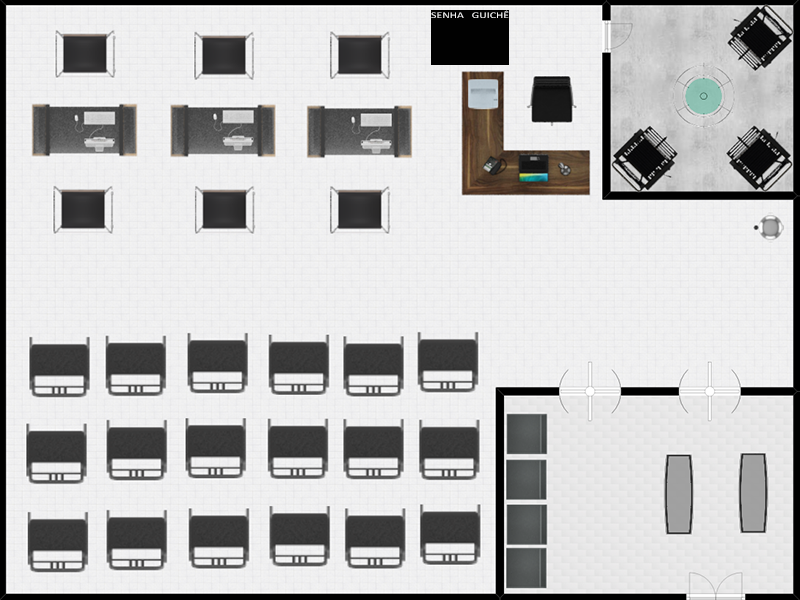
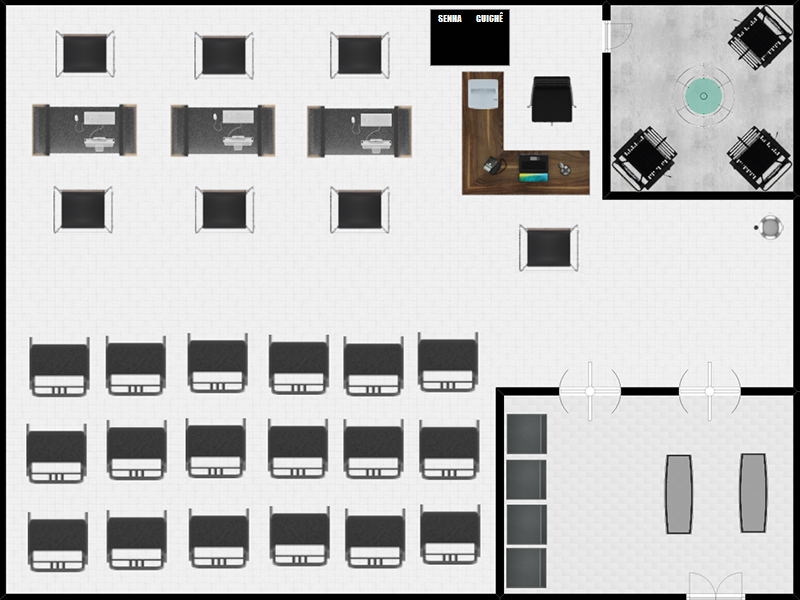
Fala do gerente, Fala do Cliente ao chegar ao Banco, Cadeira do cliente no Background

Changed region(s): [[0.5312, 0.0, 0.6562, 0.06], [0.6562, 0.36, 0.7188, 0.45]]

diff --git a/BAgent/src/modelo/agentes/AgenteGerente.java b/BAgent/src/modelo/agentes/AgenteGerente.java
@@ -18,6 +18,8 @@ public class AgenteGerente extends Agent {
 
     private int ultimaSenha;
     private JLabel imagemIcone;
+    private JLabel tipGerente;
+    private JLabel tipClienteGerente;
 
     public AgenteGerente() {
         this.ultimaSenha = 0;
@@ -26,6 +28,8 @@ public class AgenteGerente extends Agent {
     @Override
     protected void setup() {
         imagemIcone = (JLabel) getArguments()[0];
+        tipGerente = (JLabel) getArguments()[1];
+        tipClienteGerente = (JLabel) getArguments()[2];
         addBehaviour(new CyclicBehaviour(this) {
 
             @Override
@@ -34,10 +38,26 @@ public class AgenteGerente extends Agent {
                 if (msg != null) {
                     String content = msg.getContent();
                     if (content.equalsIgnoreCase("Quero uma senha para atendimento.")) {
+                        tipClienteGerente.setVisible(true);
+                        tipClienteGerente.setText("<html>" + content);
+                        try {
+                            Thread.sleep(1000);
+                        } catch (InterruptedException ex) {
+                            Logger.getLogger(AgenteGerente.class.getName()).log(Level.SEVERE, null, ex);
+                        }
+                        tipClienteGerente.setVisible(false);
                         //System.out.println("Gerente recebe: " + content);
                         enviaMensagem(myAgent, msg.getSender().getLocalName(), "Sua senha é Cliente-" + ultimaSenha);
+                        tipGerente.setVisible(true);
+                        tipGerente.setText("<html> Sua senha é " + ultimaSenha);
                         ultimaSenha++;
-
+                        
+                        try {
+                            Thread.sleep(1500);
+                        } catch (InterruptedException ex) {
+                            Logger.getLogger(AgenteGerente.class.getName()).log(Level.SEVERE, null, ex);
+                        }
+                        tipGerente.setVisible(false);
                         if (contarAtendentes() == 0) {
                             try {
                                 Thread.sleep(1000);
@@ -58,6 +78,7 @@ public class AgenteGerente extends Agent {
                                 enviaMensagem(myAgent, JanelaSimulacao.listaAtendentesControleDeIntervalo.get(0).getAID().getLocalName(), "Feche o caixa e aguarde ser chamado novamente.");
                             }
                         }
+                       
                     }
                 }
             }

diff --git a/BAgent/src/modelo/agentes/AgenteAtendente.java b/BAgent/src/modelo/agentes/AgenteAtendente.java
@@ -23,6 +23,7 @@ public class AgenteAtendente extends Agent {
     private JLabel imagemIconeEscritorio;
     private JLabel tipAtendente;
     private JLabel tipCliente;
+    private JLabel tipGerente;
     private Random random;
     private String cliente;
     private boolean emAtendimento = false;
@@ -41,6 +42,7 @@ public class AgenteAtendente extends Agent {
         imagemIconeEscritorio = (JLabel) getArguments()[2];
         tipAtendente = (JLabel) getArguments()[3];
         tipCliente = (JLabel) getArguments()[4];
+        tipGerente = (JLabel) getArguments()[5];
 
         addBehaviour(new CyclicBehaviour(this) {
             String[] divisor = getAID().getLocalName().split("-");
@@ -51,6 +53,8 @@ public class AgenteAtendente extends Agent {
                 if (msg != null) {
                     String content = msg.getContent();
                     if (content.equalsIgnoreCase("Vá atender por favor!")) {
+                        tipGerente.setVisible(true);
+                        tipGerente.setText("<html>"+content);
                         JanelaSimulacao.listaAtendentesControleDeIntervalo.add(aThis);
                         JanelaSimulacao.listaAtendentesEmAtendimento[Integer.valueOf(divisor[1])] = aThis;
                         JanelaSimulacao.listaAtendentesDisponiveis.remove(aThis);
@@ -58,9 +62,18 @@ public class AgenteAtendente extends Agent {
                         imagemIcone.setVisible(true);
                         aguardar(1000);
                         proximoCliente(myAgent);
+                        tipGerente.setVisible(false);
 
                     } else if (content.equalsIgnoreCase("Feche o caixa e aguarde ser chamado novamente.")) {
+                        tipGerente.setVisible(true);
+                        tipGerente.setText("<html>"+content);
                         descansar = true;
+                        try {
+                            Thread.sleep(1000);
+                        } catch (InterruptedException ex) {
+                            Logger.getLogger(AgenteAtendente.class.getName()).log(Level.SEVERE, null, ex);
+                        }
+                        tipGerente.setVisible(false);
                     } else if (content.equalsIgnoreCase("Tenho boletos para pagar.") || content.equalsIgnoreCase("Sim, desejo pagar mais um boleto.")) {
                         tipCliente.setVisible(true);
                         tipCliente.setText("<html>" + content);

diff --git a/BAgent/src/visao/JanelaSimulacao.java b/BAgent/src/visao/JanelaSimulacao.java
@@ -88,6 +88,8 @@ public class JanelaSimulacao extends javax.swing.JFrame {
     // <editor-fold defaultstate="collapsed" desc="Generated Code">//GEN-BEGIN:initComponents
     private void initComponents() {
 
+        TipGerente = new javax.swing.JLabel();
+        TipClienteGerente = new javax.swing.JLabel();
         TipAtendente1 = new javax.swing.JLabel();
         painelSenha = new javax.swing.JLabel();
         TipCliente1 = new javax.swing.JLabel();
@@ -132,6 +134,16 @@ public class JanelaSimulacao extends javax.swing.JFrame {
         setDefaultCloseOperation(javax.swing.WindowConstants.EXIT_ON_CLOSE);
         setTitle("BAgent - GitHub: /Ailtonjr   /AntonioFalcao   /JFRode");
         getContentPane().setLayout(null);
+
+        TipGerente.setFont(new java.awt.Font("Dialog", 1, 9)); // NOI18N
+        TipGerente.setHorizontalAlignment(javax.swing.SwingConstants.CENTER);
+        getContentPane().add(TipGerente);
+        TipGerente.setBounds(520, 20, 90, 50);
+
+        TipClienteGerente.setFont(new java.awt.Font("Dialog", 1, 9)); // NOI18N
+        TipClienteGerente.setHorizontalAlignment(javax.swing.SwingConstants.CENTER);
+        getContentPane().add(TipClienteGerente);
+        TipClienteGerente.setBounds(500, 280, 110, 40);
 
         TipAtendente1.setFont(new java.awt.Font("Dialog", 1, 9)); // NOI18N
         TipAtendente1.setHorizontalAlignment(javax.swing.SwingConstants.CENTER);
@@ -333,6 +345,8 @@ public class JanelaSimulacao extends javax.swing.JFrame {
     public static javax.swing.JLabel TipCliente1;
     public static javax.swing.JLabel TipCliente2;
     public static javax.swing.JLabel TipCliente3;
+    public static javax.swing.JLabel TipClienteGerente;
+    public static javax.swing.JLabel TipGerente;
     private javax.swing.JLabel labelBackground;
     public static javax.swing.JLabel painelSenha;
     // End of variables declaration//GEN-END:variables

diff --git a/BAgent/src/factory/AgentFactory.java b/BAgent/src/factory/AgentFactory.java
@@ -44,7 +44,7 @@ public class AgentFactory {
         //Cria o container contido no profile
         cc = runtime.createAgentContainer(profile);
         try {
-            agentController = cc.createNewAgent("Gerente", AgenteGerente.class.getName(), new Object[]{JanelaSimulacao.Gerente});
+            agentController = cc.createNewAgent("Gerente", AgenteGerente.class.getName(), new Object[]{JanelaSimulacao.Gerente,  JanelaSimulacao.TipGerente, JanelaSimulacao.TipClienteGerente});
             agentController.start();
             for (int i = 0; i < 3; i++) {
 
@@ -55,7 +55,8 @@ public class AgentFactory {
                     //Pegar a label do atendente para exibir as mensagens
                     JanelaSimulacao.listaTipBalcao.get(i),
                     //Pegar a label do cliente para exibir as mensagens
-                    JanelaSimulacao.listaTipBalcao.get(i+3)});
+                    JanelaSimulacao.listaTipBalcao.get(i + 3),
+                    JanelaSimulacao.TipGerente});
                 agentController.start();
             }
         } catch (StaleProxyException ex) {
